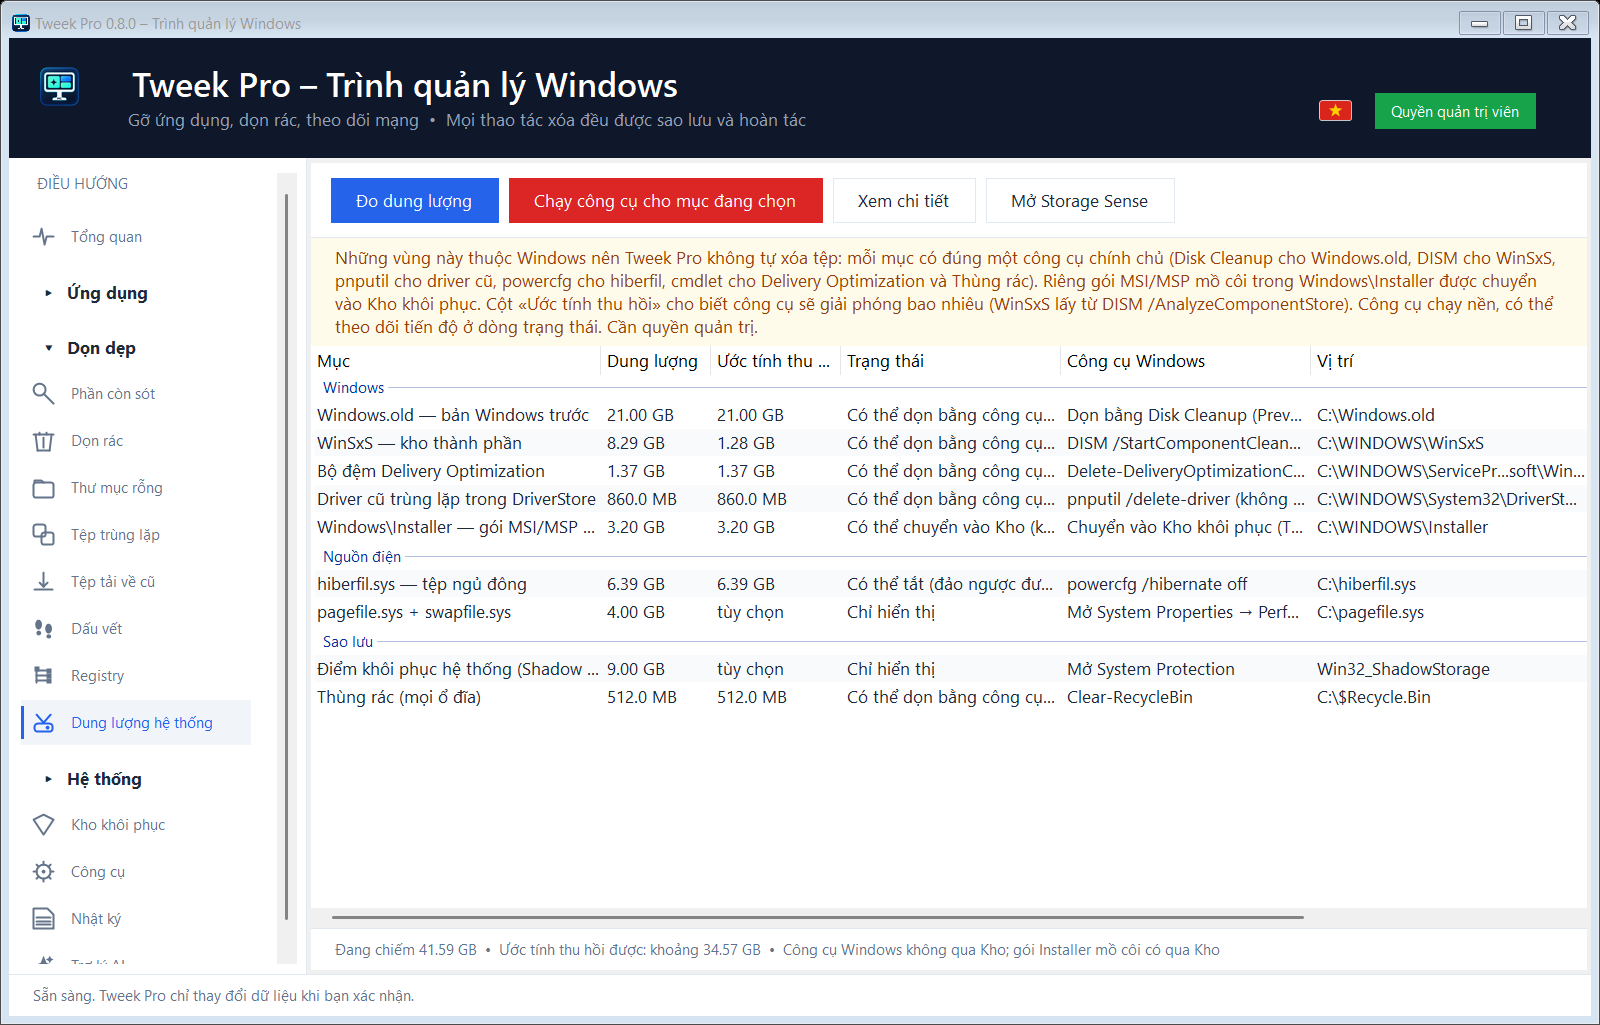
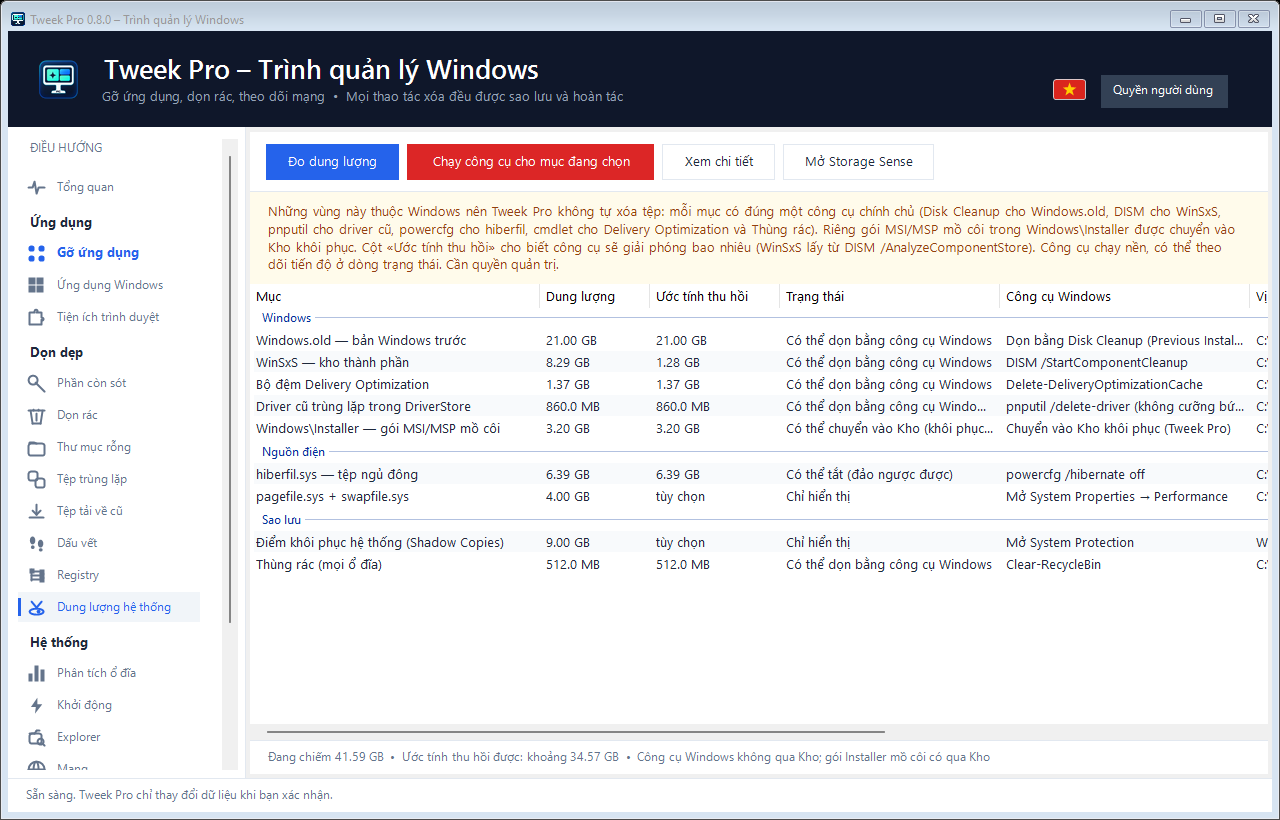
Keep sidebar groups expanded and highlight uninstall

diff --git a/Navigation.cs b/Navigation.cs
@@ -11,9 +11,7 @@ namespace TweekPro {
   readonly FlowLayoutPanel menu=new FlowLayoutPanel();
   readonly Dictionary<TabPage,Button> links=new Dictionary<TabPage,Button>();
   readonly Dictionary<int,FlowLayoutPanel> groups=new Dictionary<int,FlowLayoutPanel>();
-  readonly Dictionary<int,Button> headings=new Dictionary<int,Button>();
   readonly string[] names={"Ứng dụng","Dọn dẹp","Hệ thống"};
-  int expanded=-1;
   public TabStrip(TabControl target){
    tabs=target;Dock=DockStyle.Left;Width=238;BackColor=Theme.Surface;Padding=new Padding(10,12,8,8);
    menu.Dock=DockStyle.Fill;menu.FlowDirection=FlowDirection.TopDown;menu.WrapContents=false;menu.AutoScroll=true;menu.BackColor=Theme.Surface;
@@ -35,9 +33,7 @@ namespace TweekPro {
    var caption=new Label{Text=Core.L.T("ĐIỀU HƯỚNG"),ForeColor=Theme.Muted,Font=Theme.Small,Height=28,Margin=new Padding(10,0,0,4)};menu.Controls.Add(caption);
    foreach(TabPage p in tabs.TabPages)if(Branding.GlyphKey(p.Text)=="pulse")AddLink(menu,p);
    for(int i=0;i<names.Length;i++){
-    int group=i;
-    var heading=new Button{Height=36,TextAlign=ContentAlignment.MiddleLeft,Font=Theme.Strong,FlatStyle=FlatStyle.Flat,ForeColor=Theme.Text,BackColor=Theme.Surface,Margin=new Padding(0,8,0,0),Padding=new Padding(10,0,0,0),Cursor=Cursors.Hand};
-    heading.FlatAppearance.BorderSize=0;heading.Click+=(s,e)=>{expanded=expanded==group?-1:group;ShowGroup();};headings.Add(i,heading);menu.Controls.Add(heading);
+    var heading=new Label{Text=Core.L.T(names[i]),Height=28,TextAlign=ContentAlignment.MiddleLeft,Font=Theme.Strong,ForeColor=Theme.Text,BackColor=Theme.Surface,Margin=new Padding(0,6,0,0),Padding=new Padding(10,0,0,0)};menu.Controls.Add(heading);
     var body=new FlowLayoutPanel{AutoSize=true,AutoSizeMode=AutoSizeMode.GrowAndShrink,FlowDirection=FlowDirection.TopDown,WrapContents=false,Margin=new Padding(0),Padding=new Padding(0)};
     groups.Add(i,body);menu.Controls.Add(body);
     foreach(TabPage p in tabs.TabPages)if(Group(p)==i)AddLink(body,p);
@@ -46,20 +42,17 @@ namespace TweekPro {
    menu.ResumeLayout(true);SelectActive();FitWidths();
   }
   void AddLink(FlowLayoutPanel parent,TabPage page){
-   var button=new Button{Text=page.Text,AccessibleName=page.Text,Height=36,Font=Theme.Small,TextAlign=ContentAlignment.MiddleLeft,Padding=new Padding(34,0,0,0),FlatStyle=FlatStyle.Flat,Margin=new Padding(0,1,0,1),BackColor=Theme.Surface,ForeColor=Theme.Muted,Cursor=Cursors.Hand,AutoEllipsis=true};
+   bool uninstall=Branding.GlyphKey(page.Text)=="apps";string title=uninstall?Core.L.T("Gỡ ứng dụng"):page.Text;
+   var button=new Button{Text=title,AccessibleName=title,Height=30,Font=uninstall?Theme.Strong:Theme.Small,TextAlign=ContentAlignment.MiddleLeft,Padding=new Padding(34,0,0,0),FlatStyle=FlatStyle.Flat,Margin=new Padding(0,1,0,1),BackColor=Theme.Surface,ForeColor=Theme.Muted,Cursor=Cursors.Hand,AutoEllipsis=true};
    button.FlatAppearance.BorderSize=0;button.FlatAppearance.MouseOverBackColor=Theme.SoftButtonHover;
    button.Click+=(s,e)=>tabs.SelectedTab=page;
-   button.Paint+=(s,e)=>{float scale=button.Height/36f;Branding.DrawTabGlyph(e.Graphics,page.Text,new Rectangle((int)(10*scale),(button.Height-(int)(16*scale))/2,(int)(16*scale),(int)(16*scale)),button.ForeColor);if(tabs.SelectedTab==page)using(var b=new SolidBrush(Theme.Primary))e.Graphics.FillRectangle(b,0,6,3,button.Height-12);};
+   button.Paint+=(s,e)=>{float scale=button.Height/30f;Branding.DrawTabGlyph(e.Graphics,page.Text,new Rectangle((int)(10*scale),(button.Height-(int)(16*scale))/2,(int)(16*scale),(int)(16*scale)),button.ForeColor);if(tabs.SelectedTab==page)using(var b=new SolidBrush(Theme.Primary))e.Graphics.FillRectangle(b,0,6,3,button.Height-12);};
    links.Add(page,button);parent.Controls.Add(button);
   }
   void SelectActive(){
    if(tabs.SelectedTab==null)return;
-   int group=Group(tabs.SelectedTab);if(group>=0)expanded=group;
-   ShowGroup();
-   foreach(var pair in links){bool active=pair.Key==tabs.SelectedTab;pair.Value.BackColor=active?Theme.SoftButton:Theme.Surface;pair.Value.ForeColor=active?Theme.Primary:Theme.Muted;pair.Value.Invalidate();}
-   Button selected;if(links.TryGetValue(tabs.SelectedTab,out selected)){var parent=selected.Parent as ScrollableControl;if(parent!=null)parent.ScrollControlIntoView(selected);menu.ScrollControlIntoView(selected.Parent==menu?selected:selected.Parent);}
+   foreach(var pair in links){bool active=pair.Key==tabs.SelectedTab;pair.Value.BackColor=active?Theme.SoftButton:Theme.Surface;pair.Value.ForeColor=active||Branding.GlyphKey(pair.Key.Text)=="apps"?Theme.Primary:Theme.Muted;pair.Value.Invalidate();}
   }
-  void ShowGroup(){foreach(var pair in groups){pair.Value.Visible=pair.Key==expanded;headings[pair.Key].Text=(pair.Key==expanded?"▾  ":"▸  ")+Core.L.T(names[pair.Key]);}FitWidths();}
   void FitWidths(){
    int width=Math.Max(120,menu.ClientSize.Width-SystemInformation.VerticalScrollBarWidth-4);
    foreach(Control c in menu.Controls)c.Width=width;

diff --git a/Core/LangEn.cs b/Core/LangEn.cs
@@ -1,4 +1,4 @@
-using System;
+using System;
 using System.Collections.Generic;
 
 namespace TweekPro.Core {
@@ -17,6 +17,7 @@ namespace TweekPro.Core {
    {"Đã xử lý","Processed"},{"Đang dùng / không truy cập được","In use / inaccessible"},
    {"Đã thay đổi — giữ lại","Changed — kept"},{"Không còn tồn tại","No longer exists"},{"Lỗi xử lý","Processing error"},
    {"Không có tệp trong nhóm này.","No files in this category."},
+   {"Gỡ ứng dụng","Uninstall apps"},
    {"ĐIỀU HƯỚNG","NAVIGATION"},
    {"Dọn dẹp","Cleanup"},
    {"Chọn một khu vực để xem chi tiết và nơi xử lý.","Select an area to see its details and next action."},

diff --git a/WORKSTATE.md b/WORKSTATE.md
@@ -1,12 +1,13 @@
 # Tweek Pro - current work checkpoint
 
 Updated: 2026-09-27 (Asia/Bangkok).
-Objective: install over local executable and publish GitHub version 0.8.0. Owner explicitly authorized both.
-Status: complete. Release v0.8.0 published; local installation updated successfully.
+Objective: simplify sidebar for nontechnical users, keep Applications/Cleanup fully expanded and make uninstall easy to find.
+Status: implemented locally and opened for owner review. DO NOT PUSH or replace installed build until owner approves this iteration (explicit latest instruction). Base main/origin 2ee0c71.
 
-- Release commit 86f0e26; remote annotated v0.8.0 peeled to that commit. GitHub Actions run 36308801882 completed SUCCESS (build, full tests, installer/portable and Release upload).
-- Release: https://github.com/tuantien0001/TweekPro/releases/tag/v0.8.0 with Setup.exe and portable.zip. Main also includes 870e2b3: wait for screenshot process in release.ps1 and complete 0.8.0 gallery; no tag moved.
-- Full local release self-test PASS 2026-09-27T16:15:17. Installed executable full self-test PASS 2026-09-27T16:20:30. Installed/build SHA256 both 5E5A9DA31DF9AE948439C09DED02B4BE25B9BABB92F3B99F3CCD1E9017C8D684.
-- Installed via locally compiled Inno Setup from the tested 0.8.0 output (GitHub downloads were slow and cancelled). Setup exit 0, no restart required. Program Files now has only TweekPro-0.8.0.exe; uninstall registry DisplayVersion 0.8.0; Start Menu shortcut points to it. Local installer: dist/TweekPro-0.8.0-Setup.exe.
-- Previous installation backup: %LOCALAPPDATA%/TweekPro-install-backup-20260927-161501. User data/vault retained. Old app closed gracefully; new app launched as PID 50976. No verification/download commands remain running.
-- Preserve untracked .bridge/ and .cursor/. Logs: .bridge/release-080.log, install-080.log, setup-080.log. All project changes committed and pushed; next action is owner's normal use/feedback.
+- All three sidebar groups permanently expanded; headings are labels with no collapse action. Compact rows; prominent bold blue Uninstall apps link (VI: Go ung dung with native Vietnamese text). Tab switches no longer auto-scroll sidebar away from top.
+- VI/EN translations and README pending 0.8.1 notes updated. All 22 tab screenshots regenerated locally in both languages; Vietnamese docs/screenshots; English in %TEMP%/TweekProUIReview-d929723cda3c4a848c31de0c485f5ef9/en.
+- Build: 0 warnings/errors. Full self-test attempt did not run because Windows elevation was cancelled; do not claim a new full PASS. VI/EN UI smoke PASS: 21 clickable/keyboard-focusable links, groups stay expanded through every selection, six cleanup filters correct. git diff --check passed.
+- Review app launched from workspace bin/Release/net48/TweekPro-0.8.0.exe, PID 49596, title confirmed. Existing installed 0.8.0 remains unchanged. User should review the workspace window.
+- Next: collect owner feedback/approval, rerun full elevated self-test before distribution, then update GitHub and latest screenshots only after approval. No new tag/release created.
+- Previous v0.8.0 Release and installed build verified in prior checkpoint; installation backup remains %LOCALAPPDATA%/TweekPro-install-backup-20260927-161501.
+- Preserve untracked .bridge/ and .cursor/. No verification commands still running; review app intentionally remains open. This local checkpoint is not a GitHub backup.
